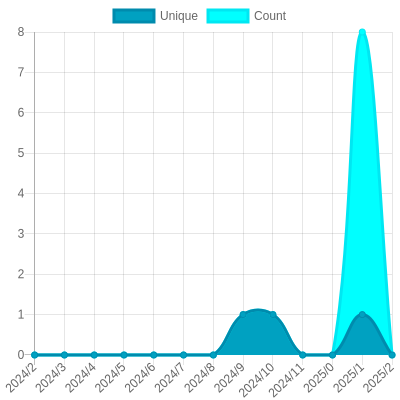
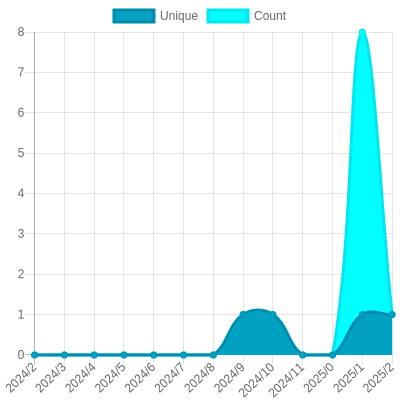
Update views

Changed region(s): [[0.87, 0.54, 0.99, 0.9], [0.93, 0.21, 0.96, 0.54], [0.84, 0.84, 0.87, 0.87]]

diff --git a/readme/619550591/year.md b/readme/619550591/year.md
@@ -23,10 +23,10 @@
 			<code>2024/3/1</code>
 		</td>
 		<td>
-			<code>0</code>
+			<code>1</code>
 		</td>
 		<td>
-			<code>0</code>
+			<code>1</code>
 		</td>
 	</tr>
 	<tr>
@@ -164,7 +164,7 @@
 </table>
 
 </details>
-<small><i>Last updated on 2024/3/7 12:41 AM UTC</i></small>
+<small><i>Last updated on 2024/3/7 6:16 AM UTC</i></small>
 
 ## ✂Copy and 📋 Paste
 ### SVG Badge

diff --git a/README.md b/README.md
@@ -117,7 +117,7 @@ The project created and maintained by [gayanvoice](https://github.com/gayanvoice
 	</tr>
 </table>
 
-<small><i>Last updated on 2024/3/7 12:41 AM UTC</i></small>
+<small><i>Last updated on 2024/3/7 6:16 AM UTC</i></small>
 
 ## ✂Copy and 📋 Paste
 ### Total Views Badge

diff --git a/readme/619128532/year.md b/readme/619128532/year.md
@@ -164,7 +164,7 @@
 </table>
 
 </details>
-<small><i>Last updated on 2024/3/7 12:41 AM UTC</i></small>
+<small><i>Last updated on 2024/3/7 6:16 AM UTC</i></small>
 
 ## ✂Copy and 📋 Paste
 ### SVG Badge

diff --git a/readme/619164835/year.md b/readme/619164835/year.md
@@ -164,7 +164,7 @@
 </table>
 
 </details>
-<small><i>Last updated on 2024/3/7 12:41 AM UTC</i></small>
+<small><i>Last updated on 2024/3/7 6:16 AM UTC</i></small>
 
 ## ✂Copy and 📋 Paste
 ### SVG Badge

diff --git a/readme/619275366/year.md b/readme/619275366/year.md
@@ -164,7 +164,7 @@
 </table>
 
 </details>
-<small><i>Last updated on 2024/3/7 12:40 AM UTC</i></small>
+<small><i>Last updated on 2024/3/7 6:16 AM UTC</i></small>
 
 ## ✂Copy and 📋 Paste
 ### SVG Badge

diff --git a/readme/662394435/year.md b/readme/662394435/year.md
@@ -164,7 +164,7 @@
 </table>
 
 </details>
-<small><i>Last updated on 2024/3/7 12:41 AM UTC</i></small>
+<small><i>Last updated on 2024/3/7 6:16 AM UTC</i></small>
 
 ## ✂Copy and 📋 Paste
 ### SVG Badge

diff --git a/readme/697110580/year.md b/readme/697110580/year.md
@@ -164,7 +164,7 @@
 </table>
 
 </details>
-<small><i>Last updated on 2024/3/7 12:41 AM UTC</i></small>
+<small><i>Last updated on 2024/3/7 6:16 AM UTC</i></small>
 
 ## ✂Copy and 📋 Paste
 ### SVG Badge
